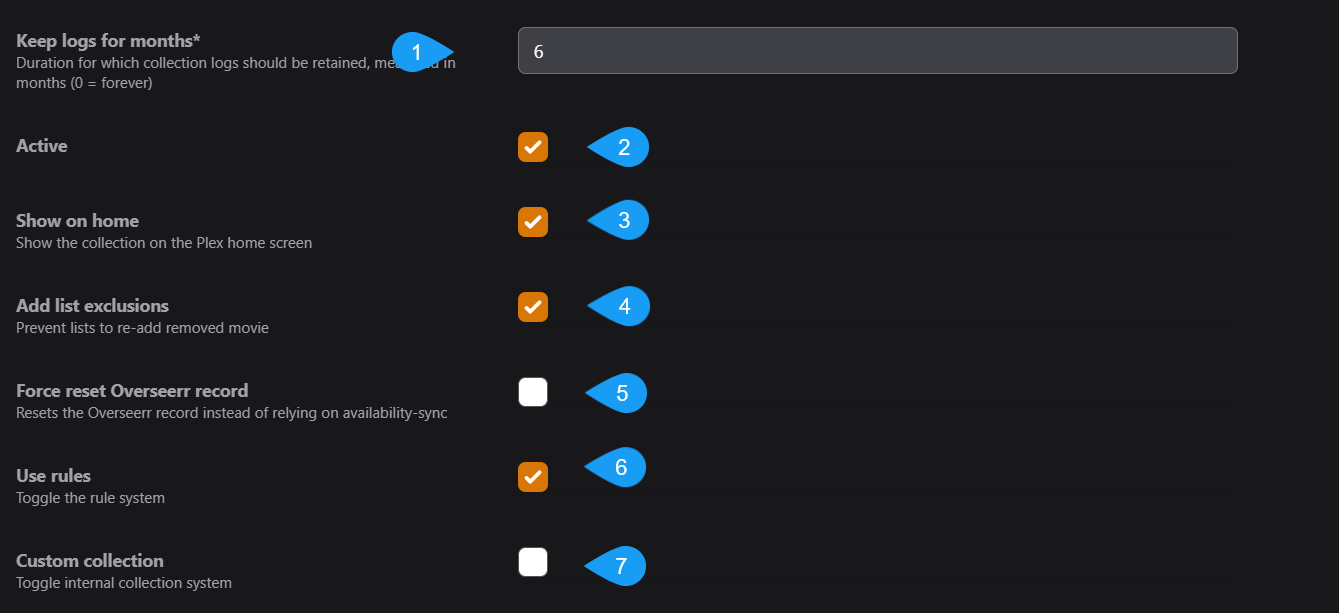
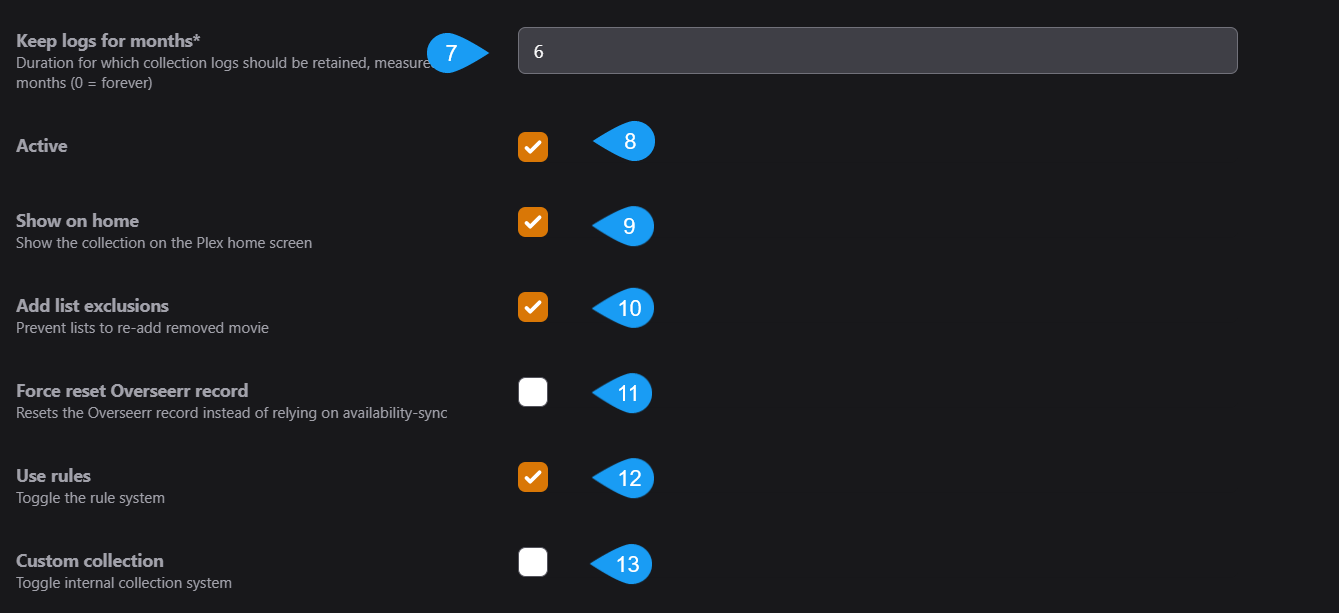
Adding a tutorials section.

diff --git a/Tutorials/Tutorial_pg1.md b/Tutorials/Tutorial_pg1.md
@@ -1,0 +1,100 @@
+</br>
+
+The rule system behind Maintainerr is quite complex, and therefore powerful. When you get the hang of it, you will be cleaning up that mess you call a library in no time.
+</br>
+
+# Tutorial
+<p align="center">
+<img src="images/movie_poster.png" width="180" height="250"></img>
+</p>
+
+Let's take this movie as an example. This isn't a real movie, but for the purposes of this tutorial we are going to pretend. This movie has the following attributes across Plex, OverSeerr, and Radar:
+
+**Plex** -
+
+| Added | Last Viewed | Times Viewed | Audience Rating |
+| -------|-------------|--------------|---------------- |
+| 3Nov2023 | 10Jan2024 | 4 | 7.3 |
+
+**OverSeerr** - 
+
+| Requested by | Requested Date | Times Requested by Anyone|
+| ------------| --------------- | ------------- |
+| user_girl123 | 2Nov2023 | 4 |
+
+**Radarr** - 
+
+| Release Date | Is Monitored | Runtime |
+| ------------ | ------------ | ------- |
+| 31Oct2023 | True | 114 minutes | 
+
+</br>
+
+> :bulb: This information can be looked at for an actual item in your Plex library. You can do it through the Plex UI or you can parse through the XML of an item.
+<a href="https://support.plex.tv/articles/201998867-investigate-media-information-and-formats/#:~:text=Open%20the%20Media,the%20XML%20information"> 🌐 -> <u>Link to see how to get your Plex Media Info and XML data</u> </a>
+
+We want to make a rule that would add this movie to it's collection. This won't be the only movie in the collection. However, all of the other movies that will be added into this collection matched the rule for the same reason/s.
+
+## Rule Setup
+We will start from the top of a new rule.
+
+<p align="center"><img src="images/screenshot-1.png" width="80%"></img></p>
+
+- 1: This is the name of the Rule, and will eventually be the name of the Collection that gets created.
+- 2: Self explanatory but you can put whatever you want here. It will be shown in Plex when you open the collection.
+     <p align="center"><img src="images/screenshot_plex_collection.png" width="75%"></p>
+- 3: Drop-down list of your Plex Libraries. Which library is this rule going to be run against?
+- 4: This will not be shown if you select a Movies library in #3. If you selected a TVShow library, your options will be shows/seasons/episodes. What type of TVShow media are we going to run the rule against? An entire show, just seasons, or just episodes? Different options will be made avaialable to you or taken away, depending on what you select here.
+- 5: Sonarr/Radarr action is what is going to happen after the `action after days` set in #6. Options are dependent on the library and media type from above. `Delete` will remove the files and the item from Sonarr/Radarr. `Unmonitor and delete` will unmonitor (not remove) the item from Sonarr/Radarr but delete the files. `Unmonitor and keep` will unmonitor the item from Sonarr/Radarr and <u>**keep**</u> the files.
+- 6: Think of this as a "delay" setting. How many days after this rule is ran, items have been matched to this rules filter parameters and added to the collection, will we execute the action set in #5?
+
+<p align="center"><img src="images/screenshot-2.png" width="75%"></img></p>
+
+- 7: How many days are we going to keep logs of this collections actions?
+- 8: Is this Rule active? Will it be one of the rules ran either by a manual run, or through periodic runs?
+- 9: Is this collection going to be shown on the Plex Home screen, or are you only going to be able to see it through the Plex Library screen?
+- 10: When the action set in #5 from our previous screenshot is taken, will Maintainerr also send a hit back to Sonarr/Radarr that excludes this item from being automatically added by any import lists?
+- 11: When the action set in #5 from our previous screenshot is taken, will we tell Overseerr that this item is no longer avaiable and can be requested again?
+- 12: You can toggle the rule system off and on. This is useful if you have collections in Plex that you want to see in Maintainerr, but don't want any actions taken on the collection.
+- 13: You can create a collection in Plex, and then use that collection in Maintainerr. If you are doing that, tick this Custom Collection box to on. This can be useful if there is a collection made by say PMM or by you, and you want to execute some rules against it.
+</br>
+   > <img src="images/screenshot_discord_comment.png" width=85%></img>
+
+## Rule Configuration
+Now we are getting into the nitty gritty. After the settings above have been configured to your liking, you start to craft the rule logic. There is an button labeled Community, which are rule setups that have been shared by others. Clicking on this button will list the "uploaded" rules and you can use one of these rules if you wish. Clicking on a rule and then clicking on the info button down below, will give you uploaders description of that rule and possibly how it works.
+> :memo: Community rules are just that, from the community. They may not work like they say they do. They may not be formatted properly. It can be a nice place to start but I personally wouldn't rely on them as everyones situation is different. 
+
+Below the **Community** button there are two other buttons. Import and Export. You can import a rule from a txt file in YAML format (this is an advanced method but it is an option). 
+ > :memo: If you want to go down this path, I would choose one of the Community rules, doesn't really matter which one, and then use the export button. You will get a generated YAML format of the rule. If you are familiar with YAML this will be a good place to start. Take a look at this page for the proper syntax of each parameter -> [Rules Glossary](https://docs.maintainerr.info/en/Glossary). 
+ 
+ If you are looking at a rule that you have already created, you can export the rule in YAML format in order to share it or textually edit it. 
+### Rules and Sections
+Understanding rules and sections can be crucial to getting your rule setup properly and acheiving your desired outcome.
+
+When you first start, you will be in the first *section*. Section #1 - Rule #1. A section is a grouped set of rules with one output over the whole section, depending on what was matched in the rules *within* that section.
+
+So let's try an **AND** example...
+- Our rule 1 setup gains us output X and output Y.
+- Our rule 2 setup gains us output X.
+- Our rule 2 is setup with an AND operator to rule 1.
+- The output of this section would be X only.
+  - Since X was matched by rule 1 AND rule 2 but Y was only matched by rule 1, it will not be included in the sections output because we said we want the output of the *section* to be everthing that matched ==<font color=yellow>rule 1 AND rule 2</font>==.
+
+Now an **OR** example...
+- Our rule 1 setup gains us output X and output Y.
+- Our rule 2 setup gains us output X and output Z.
+- Our rule 2 is setup with an OR operator to rule 1.
+- The output of this section would be X, Y, and Z.
+  - Since X and Y were matched by rule 1 and X and Z were matched by rule 2, they are all included because we said we want the output of the *section* to be everything that matched ==<font color=yellow>rule 1 OR rule 2</font>==.
+
+This is probably the simplest form of a rule setup that you can get. Well, unless of course you are only using one rule then it is self explanatory. Anything matched by that one rule becomes the output.
+
+Now let's try a mixed **AND** / **OR** example...
+- Rule 1 setup gains us output X and output Y.
+- Rule 2 setup gains us output X.
+- Rule 2 is setup with an AND operator to rule 1.
+- The output is X, as before.
+- Rule 3 setup gains us output G and output M.
+- Rule 3 is setup with an OR operator to rule 2.
+- The output of the whole *section* would be X, G, and M.
+  - Since X was matched by rule 1 AND rule 2 but Y was only matched by rule 1, the output of rule 2 will be only X. Since G and M were matched by rule 3, and we said we want the output of the *section* to be anything that matches ==<font color=yellow>(rule 1 AND 2 ) OR rule 3</font>==... we get X, G, and M.
